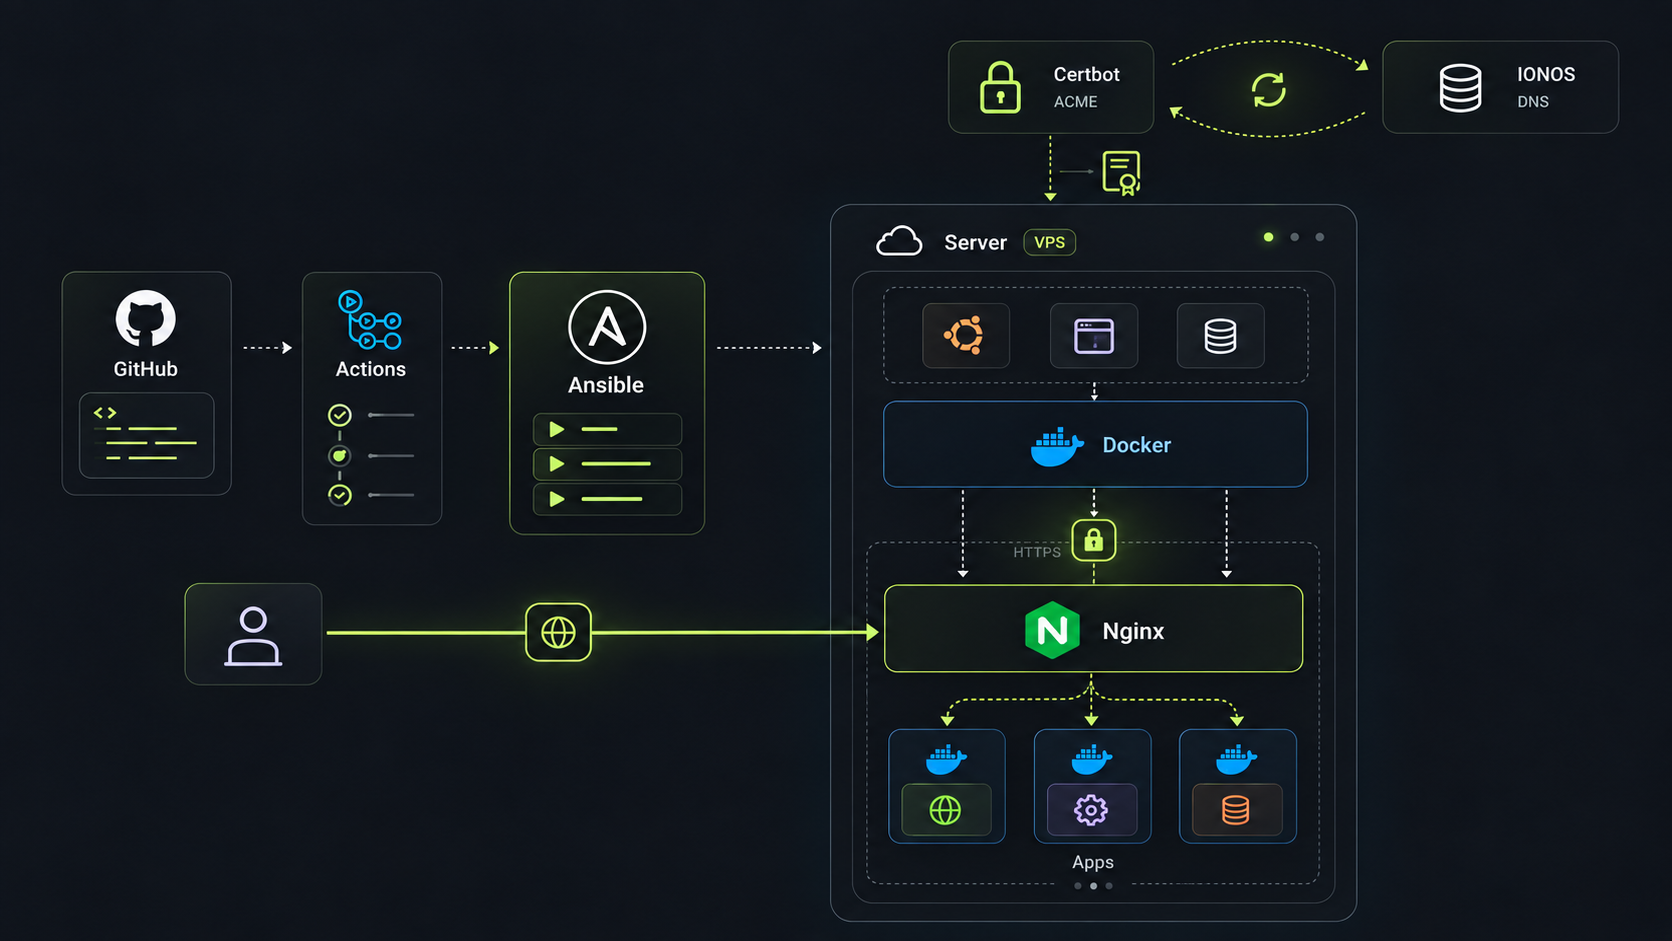
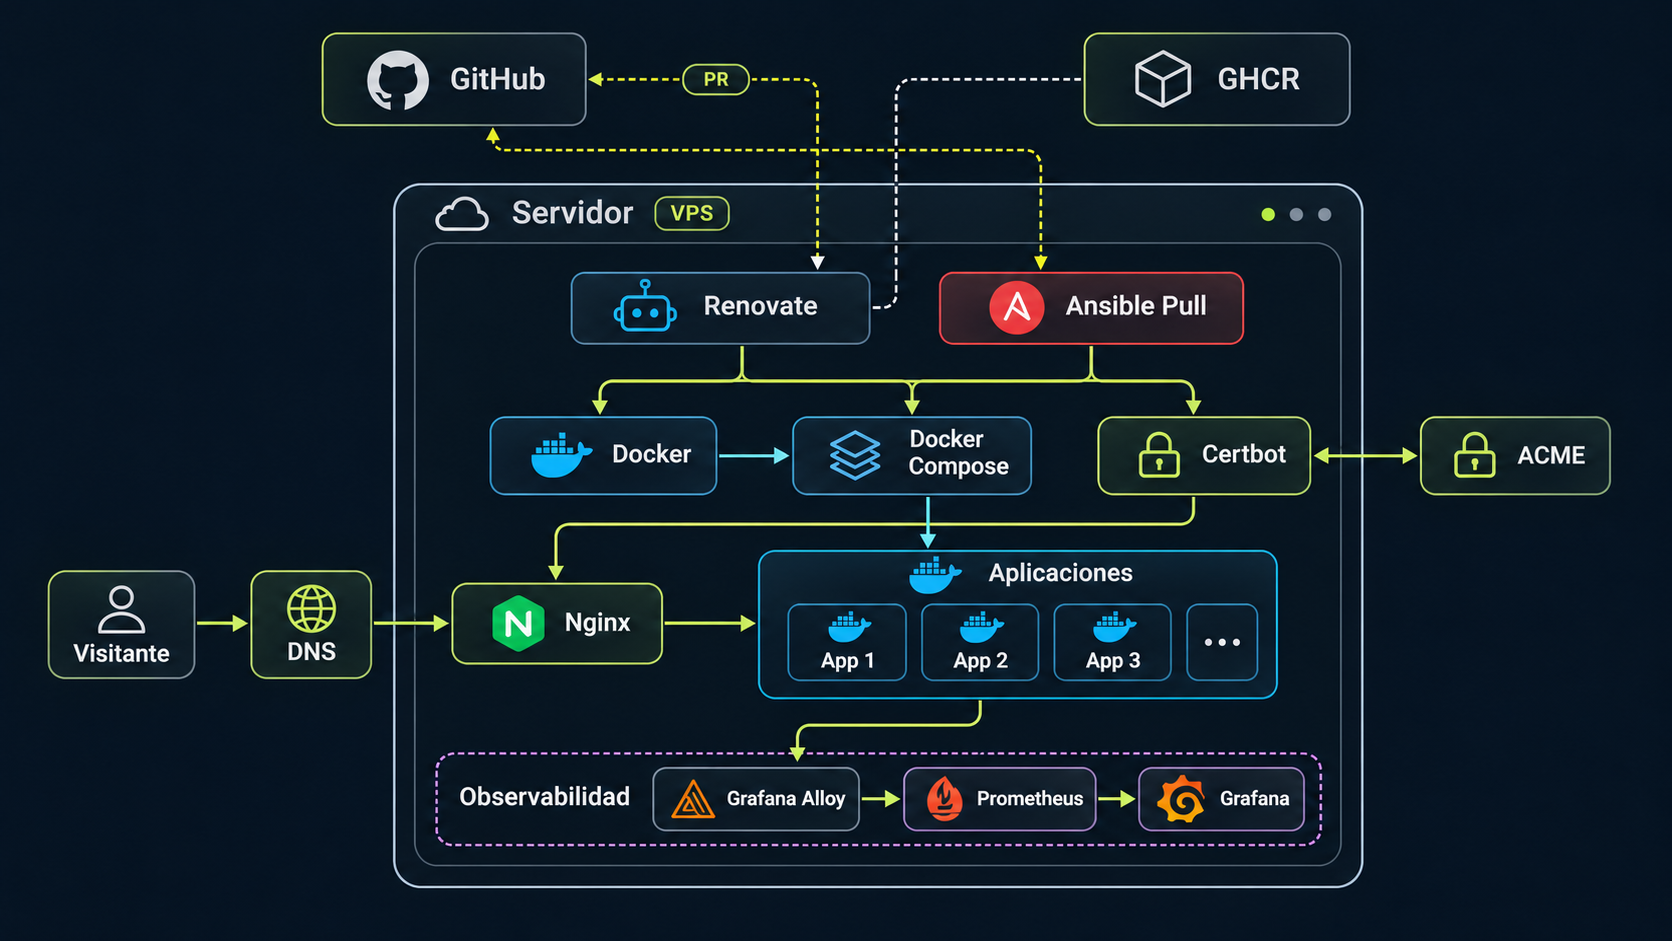
feat: update Cloud Platform case study and project assets

diff --git a/src/content.config.ts b/src/content.config.ts
@@ -16,7 +16,7 @@ const projects = defineCollection({
     .object({
       title: z.string().trim().min(1),
       description: z.string().trim().min(1),
-      tags: z.array(z.string().trim().min(1)).min(1)
+      tags: z.array(z.string().trim().min(1)).min(1).max(5)
     })
     .strict()
 })

diff --git a/src/content/projects/cloud-platform/es.md b/src/content/projects/cloud-platform/es.md
@@ -1,37 +1,39 @@
 ---
 title: 'Cloud Platform'
-description: 'Plataforma personal de infraestructura que sigue principios de GitOps para alojar, publicar y actualizar aplicaciones desde una configuración versionada, reproducible y automatizable, independiente del proveedor cloud.'
+description: 'Plataforma personal de infraestructura basada en GitOps, con reconciliación periódica del estado deseado en Git y observabilidad del servidor y sus aplicaciones, independiente del proveedor cloud.'
 tags:
   - 'Ansible'
   - 'Docker'
   - 'Nginx'
-  - 'Certbot'
+  - 'Grafana'
+  - 'Prometheus'
 ---
 
 ## Infraestructura reproducible
 
 Cloud Platform nace de una necesidad concreta: poder cambiar de servidor, formatearlo o recuperarme de un problema y volver a desplegar mis servicios desde una configuración conocida. Quiero que la infraestructura sea algo que puedo reconstruir y entender, sin depender de recordar cada ajuste que hice en una máquina.
 
-GitOps es una metodología que combina un estado declarativo, Git como fuente central de verdad y la sincronización automática de la infraestructura con lo definido en el repositorio. La arquitectura intenta seguir estos principios: la configuración queda versionada y los cambios activan su aplicación automatizada con Ansible. Git permite revisar los cambios, conservar su historial y recuperar configuraciones anteriores. Ansible convierte esas definiciones en un proceso reproducible para preparar un servidor y desplegar los servicios.
+La plataforma sigue los principios de GitOps: la infraestructura se describe de forma declarativa en Git, que actúa como fuente de verdad. En lugar de depender de un despliegue iniciado desde fuera, el propio servidor obtiene periódicamente la configuración mediante Ansible Pull y reconcilia su estado real con el estado deseado. Git permite revisar los cambios y conservar su historial.
 
 La plataforma separa la configuración de los servicios del proveedor que aloja la infraestructura. Puede trasladarse entre entornos compatibles sin vincular el proyecto a un proveedor cloud concreto. Cada aplicación conserva su propia configuración, mientras la plataforma resuelve las tareas compartidas de ejecución, publicación y gestión de certificados.
 
 ## Arquitectura
 
-La arquitectura tiene dos recorridos: el que permite desplegar cambios y el que sigue una visita a la web. Separarlos ayuda a entender qué responsabilidad tiene cada herramienta.
+La arquitectura separa la reconciliación de la infraestructura, el tráfico de las aplicaciones y la observabilidad. Cada herramienta tiene una responsabilidad concreta.
 
-- **GitHub Actions** inicia la automatización y comprueba la configuración antes del despliegue.
-- **Ansible** conecta al servidor mediante Secure Shell (SSH) y aplica el estado definido en el repositorio.
+- **Ansible Pull** ejecuta la reconciliación periódica en el servidor, obteniendo y aplicando el estado definido en Git.
 - **Docker** ejecuta las aplicaciones en contenedores.
 - **Docker Compose** describe las imágenes, redes y servicios de cada aplicación.
 - **Nginx** recibe las visitas y las dirige a la aplicación correspondiente según el dominio.
-- **Certbot e IONOS** permiten obtener y renovar los certificados que utiliza Nginx para ofrecer HTTPS.
+- **Certbot** automatiza la emisión y renovación de certificados HTTPS.
+- **Renovate** propone actualizaciones de las imágenes de las aplicaciones mediante pull requests.
+- **Grafana Alloy, Prometheus y Grafana** recopilan, almacenan y visualizan métricas de la infraestructura y las aplicaciones.
 
 <figure>
 
-![Arquitectura de Cloud Platform: GitHub Actions ejecuta Ansible por SSH, el servidor aloja aplicaciones Docker detrás de Nginx y Certbot gestiona certificados mediante IONOS](../../../assets/projects/cloud-platform-banner.png)
+![Aprovisionamiento inicial y publicación de aplicaciones: Docker aloja aplicaciones detrás de Nginx y Certbot gestiona los certificados HTTPS](../../../assets/projects/cloud-platform-banner.png)
 
-<figcaption>Arquitectura de la plataforma: despliegue automatizado y publicación de aplicaciones con HTTPS.</figcaption>
+<figcaption>Aprovisionamiento inicial y publicación de aplicaciones con HTTPS. Una vez aprovisionado, el propio servidor ejecuta la reconciliación.</figcaption>
 </figure>
 
 Una imagen de contenedor es el paquete con el que se distribuye una aplicación. Cloud Platform descarga imágenes ya publicadas en GitHub Container Registry (GHCR). La construcción del código pertenece al repositorio de cada aplicación. Esta separación permite actualizar un servicio sin mezclar su desarrollo con la configuración de la infraestructura.
@@ -49,45 +51,74 @@ El sistema de nombres de dominio (DNS) dirige el dominio al servidor. Allí, Ngi
 
 Después envía la petición al contenedor correspondiente a través de una red interna de Docker. La aplicación recibe el tráfico a través del proxy, sin necesidad de exponer directamente su puerto al exterior. Así, la publicación de los servicios y la gestión de sus certificados quedan centralizadas.
 
-## Despliegue declarativo
+## Despliegue declarativo y reconciliación
 
-El repositorio describe el **estado deseado**: qué aplicaciones deben ejecutarse y con qué configuración. Los cambios en la configuración de la plataforma activan un despliegue automatizado.
+El repositorio describe el **estado deseado**: qué aplicaciones deben ejecutarse y con qué configuración. Un temporizador de systemd inicia periódicamente Ansible Pull en el servidor, que obtiene el repositorio y aplica la configuración completa de la infraestructura, incluso cuando no hay cambios en Git.
 
-Ansible comprueba la compatibilidad del servidor y organiza el despliegue en cuatro etapas:
+<ol class="case-study-flow" aria-label="Ciclo de reconciliación">
+  <li><strong>Git</strong><span>Estado deseado</span></li>
+  <li><strong>Temporizador systemd</strong><span>Ejecución periódica</span></li>
+  <li><strong>Ansible Pull</strong><span>Obtener y reconciliar</span></li>
+  <li><strong>Servidor</strong><span>Aplicar cambios necesarios</span></li>
+</ol>
+
+Ansible comprueba la compatibilidad del servidor y reconcilia la infraestructura por etapas:
 
 <div class="case-study-steps">
 
 1. **Docker:** instala las herramientas de contenedores y prepara las redes necesarias.
-2. **Certificados:** configura Certbot y solicita los certificados necesarios para los dominios.
+2. **Certificados:** configura Certbot y gestiona los certificados de los dominios automatizados.
 3. **Aplicaciones:** descubre sus definiciones, descarga las imágenes y aplica cada proyecto de Docker Compose.
-4. **Nginx:** genera las configuraciones por dominio, comprueba su validez y activa el proxy compartido.
+4. **Nginx:** genera y valida las configuraciones por dominio y aplica los cambios al proxy compartido.
+5. **Observabilidad:** configura la recopilación y el almacenamiento de métricas y los dashboards del servidor y sus aplicaciones.
 
 </div>
 
 El orden resuelve dependencias: las aplicaciones necesitan el entorno de contenedores y Nginx necesita los certificados y la configuración de los servicios que va a publicar.
 
-Este enfoque toma Git como referencia para los despliegues. Ansible reaplica la configuración declarada en cada ejecución, aunque el servidor no observa el repositorio continuamente. Los cambios manuales se corrigen en el siguiente despliegue en la medida en que estén cubiertos por la automatización.
+En cada ciclo se comprueba la configuración declarada y se aplican las diferencias detectadas por Ansible y Docker Compose. Esto también permite corregir desviaciones de configuración sin necesidad de un nuevo commit.
 
 ## Control de versiones
 
 Las imágenes de las aplicaciones combinan una versión legible con un digest calculado mediante SHA-256. La referencia tiene una forma como `aplicacion:v1.2.3@sha256:…`: la etiqueta comunica la versión y el digest identifica el contenido solicitado.
 
-Esto permite revisar una actualización en Git y saber qué imagen se quiere ejecutar, incluso si una etiqueta del registro cambia posteriormente. Para volver a una versión anterior, puedo restaurar su referencia y desplegar de nuevo, siempre que esa imagen siga disponible.
+Esto permite revisar una actualización en Git y saber qué imagen se quiere ejecutar, incluso si una etiqueta del registro cambia posteriormente.
 
 - **Versión (`v1.2.3`):** identifica la versión publicada para quien revisa el cambio.
 - **Digest (`sha256:…`):** identifica el contenido que Docker debe descargar.
 
 La fijación por digest permite identificar con precisión las imágenes de las aplicaciones. La reproducción del entorno completo también depende de las versiones de las herramientas y los paquetes que lo componen.
 
+## Actualización de aplicaciones con Renovate
+
+Renovate se ejecuta cada pocos minutos y comprueba si hay nuevas versiones de las imágenes de las aplicaciones desplegadas. Cuando detecta una nueva versión, abre automáticamente una pull request en el repositorio de infraestructura con los cambios necesarios en la definición de Docker Compose para utilizar la nueva imagen, actualizando tanto la versión como su digest.
+
+Una vez revisada y fusionada la pull request, Ansible Pull obtiene la nueva configuración durante la siguiente reconciliación y actualiza la aplicación. De esta forma, la detección de versiones y la propuesta de actualización se automatizan, mientras que la aprobación del cambio sigue siendo manual.
+
 ## Certificados HTTPS
 
-Para ofrecer HTTPS, el servidor necesita un certificado que demuestre su identidad para el dominio. Certbot lo solicita mediante el protocolo Automatic Certificate Management Environment (ACME) y utiliza la API DNS de IONOS para demostrar el control de ese dominio.
+Para ofrecer HTTPS, el servidor necesita un certificado que demuestre su identidad para el dominio. Certbot lo solicita mediante el protocolo Automatic Certificate Management Environment (ACME) y utiliza la validación mediante DNS para demostrar el control de ese dominio.
 
 La validación mediante DNS permite obtener los certificados de los dominios antes de arrancar Nginx. Publicar un servicio sigue requiriendo su registro DNS y su configuración en el proxy.
 
-La automatización solicita los certificados necesarios y habilita su renovación periódica, de forma independiente de los despliegues de aplicaciones. Certbot gestiona los certificados y el proxy los utiliza en modo de solo lectura. Una recarga permite que Nginx utilice los certificados renovados.
+Para los dominios gestionados mediante ACME, la automatización solicita los certificados y habilita su renovación periódica, independientemente de los despliegues de aplicaciones. El proxy utiliza los certificados en modo de solo lectura. Una recarga permite que Nginx utilice los certificados renovados.
 
 La gestión de certificados también requiere coordinar los cambios de cobertura: añadir dominios a la configuración debe acompañarse de la emisión o actualización del certificado correspondiente.
+
+## Observabilidad
+
+Para conocer qué está ocurriendo en la infraestructura, la plataforma incluye un sistema de monitorización gestionado junto a las aplicaciones. Grafana Alloy recopila las métricas, Prometheus almacena las series temporales y su histórico, y Grafana presenta la información en dos dashboards.
+
+<div class="case-study-table">
+
+| Dashboard       | Qué monitoriza                                                    |
+| --------------- | ----------------------------------------------------------------- |
+| Infraestructura | Rendimiento del servidor y uso de recursos como CPU y memoria.    |
+| Aplicaciones    | Consumo de recursos, tráfico y disponibilidad de cada aplicación. |
+
+</div>
+
+Esta separación permite analizar el comportamiento global del servidor y el de cada aplicación de forma independiente. Los dashboards y la configuración de recopilación de métricas están versionados junto al resto de la infraestructura.
 
 ## Incorporar aplicaciones
 

diff --git a/src/content/projects/cloud-platform/en.md b/src/content/projects/cloud-platform/en.md
@@ -1,37 +1,39 @@
 ---
 title: 'Cloud Platform'
-description: 'A personal infrastructure platform that follows GitOps principles to host, publish and update applications from versioned, reproducible configuration that can be applied automatically, independently of the cloud provider.'
+description: 'A personal infrastructure platform based on GitOps, with periodic reconciliation of the desired state in Git and observability of the server and its applications, independent of the cloud provider.'
 tags:
   - 'Ansible'
   - 'Docker'
   - 'Nginx'
-  - 'Certbot'
+  - 'Grafana'
+  - 'Prometheus'
 ---
 
 ## Reproducible infrastructure
 
 Cloud Platform starts with a concrete need: being able to replace a server, reinstall it or recover from a problem and deploy my services again from a known configuration. I want infrastructure I can rebuild and understand without relying on remembering every adjustment I made to a machine.
 
-GitOps is a methodology that combines declarative state, Git as the central source of truth and automatic synchronisation of infrastructure with the definitions in the repository. The architecture aims to follow these principles: configuration is versioned, and changes trigger its automated application through Ansible. Git makes it possible to review changes, retain their history and restore earlier configurations. Ansible turns those definitions into a reproducible process for preparing a server and deploying services.
+The platform follows GitOps principles: the infrastructure is described declaratively in Git, which acts as the source of truth. Rather than relying on a deployment initiated from outside, the server periodically retrieves the configuration using Ansible Pull and reconciles its actual state with the desired state. Git makes it possible to review changes and retain their history.
 
 The platform separates service configuration from the provider hosting the infrastructure. It can move between compatible environments without tying the project to a particular cloud provider. Each application keeps its own configuration, while the platform handles shared tasks for running services, publishing them and managing certificates.
 
 ## Architecture
 
-The architecture has two paths: deploying changes and handling a visit to the website. Following them separately makes each tool's responsibility easier to understand.
+The architecture separates infrastructure reconciliation, application traffic and observability. Each tool has a specific responsibility.
 
-- **GitHub Actions** starts the automation and checks the configuration before deployment.
-- **Ansible** connects to the server through Secure Shell (SSH) and applies the state defined in the repository.
+- **Ansible Pull** runs periodic reconciliation on the server, retrieving and applying the state defined in Git.
 - **Docker** runs applications in containers.
 - **Docker Compose** describes each application's images, networks and services.
 - **Nginx** receives visits and routes them to the appropriate application according to the domain.
-- **Certbot and IONOS** obtain and renew the certificates Nginx uses to provide HTTPS.
+- **Certbot** automates HTTPS certificate issuance and renewal.
+- **Renovate** proposes application image updates through pull requests.
+- **Grafana Alloy, Prometheus and Grafana** collect, store and visualise infrastructure and application metrics.
 
 <figure>
 
-![Cloud Platform architecture: GitHub Actions runs Ansible over SSH, the server hosts Docker applications behind Nginx, and Certbot manages certificates through IONOS](../../../assets/projects/cloud-platform-banner.png)
+![Initial provisioning and application publishing: Docker hosts applications behind Nginx, and Certbot manages HTTPS certificates](../../../assets/projects/cloud-platform-banner.png)
 
-<figcaption>Platform architecture: automated deployment and application publishing over HTTPS.</figcaption>
+<figcaption>Initial provisioning and application publishing over HTTPS. Once provisioned, reconciliation runs on the server itself.</figcaption>
 </figure>
 
 A container image is the package used to distribute an application. Cloud Platform downloads images already published to GitHub Container Registry (GHCR). Building the code belongs to each application's repository. This separation allows a service to be updated without combining its development with infrastructure configuration.
@@ -49,45 +51,74 @@ The Domain Name System (DNS) directs the domain to the server. There, Nginx rece
 
 It then forwards the request to the appropriate container through an internal Docker network. The application receives traffic through the proxy without having to expose its port directly to the outside. This centralises service publication and certificate management.
 
-## Declarative deployment
+## Declarative deployment and reconciliation
 
-The repository describes the **desired state**: which applications should run and with what configuration. Changes to the platform configuration trigger an automated deployment.
+The repository describes the **desired state**: which applications should run and with what configuration. A systemd timer periodically starts Ansible Pull on the server, which fetches the repository and applies the full infrastructure configuration, even when Git has not changed.
 
-Ansible checks server compatibility and organises deployment into four stages:
+<ol class="case-study-flow" aria-label="Reconciliation cycle">
+  <li><strong>Git</strong><span>Desired state</span></li>
+  <li><strong>Systemd timer</strong><span>Periodic execution</span></li>
+  <li><strong>Ansible Pull</strong><span>Fetch and reconcile</span></li>
+  <li><strong>Server</strong><span>Apply required changes</span></li>
+</ol>
+
+Ansible checks server compatibility and reconciles the infrastructure in stages:
 
 <div class="case-study-steps">
 
 1. **Docker:** installs the container tools and prepares the required networks.
-2. **Certificates:** configures Certbot and requests the certificates needed for the domains.
+2. **Certificates:** configures Certbot and manages certificates for automated domains.
 3. **Applications:** discovers their definitions, downloads images and applies each Docker Compose project.
-4. **Nginx:** generates configurations for each domain, checks their validity and activates the shared proxy.
+4. **Nginx:** generates and validates domain configurations and applies changes to the shared proxy.
+5. **Observability:** configures the metrics collection, storage and dashboards for the server and its applications.
 
 </div>
 
 This order resolves dependencies: applications need the container environment, and Nginx needs certificates and the configuration of the services it will publish.
 
-This approach uses Git as the reference for deployments. Ansible reapplies the declared configuration on each run, although the server does not continuously watch the repository. Manual changes are corrected on the next deployment to the extent that the automation covers them.
+Each cycle checks the declared configuration and applies the differences detected by Ansible and Docker Compose. This also helps correct configuration drift without requiring a new commit.
 
 ## Version control
 
 Application images combine a readable version with a digest calculated using SHA-256. A reference looks like `application:v1.2.3@sha256:…`: the tag communicates the version, and the digest identifies the requested content.
 
-This makes an update reviewable in Git and specifies which image should run, even if a registry tag is moved later. To return to an earlier version, I can restore its reference and deploy again, provided that image remains available.
+This makes an update reviewable in Git and specifies which image should run, even if a registry tag is moved later.
 
 - **Version (`v1.2.3`):** identifies the published version for the person reviewing the change.
 - **Digest (`sha256:…`):** identifies the content Docker should download.
 
 Pinning by digest precisely identifies application images. Reproducing the entire environment also depends on the versions of the tools and packages that make it up.
 
+## Application updates with Renovate
+
+Renovate runs every few minutes and checks for new image versions of the deployed applications. When it detects a new version, it automatically opens a pull request in the infrastructure repository with the changes needed in the Docker Compose definition to use the new image, updating both its version and digest.
+
+Once the pull request has been reviewed and merged, Ansible Pull retrieves the new configuration during its next reconciliation and updates the application. This automates version discovery and update proposals while keeping approval of changes manual.
+
 ## HTTPS certificates
 
-To provide HTTPS, the server needs a certificate that establishes its identity for the domain. Certbot requests it through the Automatic Certificate Management Environment (ACME) protocol and uses the IONOS DNS API to demonstrate control of that domain.
+To provide HTTPS, the server needs a certificate that establishes its identity for the domain. Certbot requests it through the Automatic Certificate Management Environment (ACME) protocol and uses DNS validation to demonstrate control of that domain.
 
 DNS validation allows certificates for the domains to be obtained before Nginx starts. Publishing a service still requires its DNS record and proxy configuration.
 
-The automation requests the necessary certificates and enables periodic renewal independently of application deployments. Certbot manages the certificates, and the proxy uses them in read-only mode. A reload allows Nginx to use renewed certificates.
+For domains managed through ACME, the automation requests certificates and enables periodic renewal independently of application deployments. The proxy uses certificates in read-only mode. A reload allows Nginx to use renewed certificates.
 
 Certificate management also requires coordinating changes in coverage: adding domains to the configuration must be accompanied by issuing or updating the corresponding certificate.
+
+## Observability
+
+To understand what is happening across the infrastructure, the platform includes a monitoring stack managed alongside the applications. Grafana Alloy collects metrics, Prometheus stores time series and their history, and Grafana presents the information in two dashboards.
+
+<div class="case-study-table">
+
+| Dashboard      | What it monitors                                               |
+| -------------- | -------------------------------------------------------------- |
+| Infrastructure | Server performance and resource usage, such as CPU and memory. |
+| Applications   | Resource usage, traffic and availability of each application.  |
+
+</div>
+
+This separation makes it possible to analyse the overall behaviour of the server and each application independently. The dashboards and metrics collection configuration are versioned alongside the rest of the infrastructure.
 
 ## Adding applications
 
